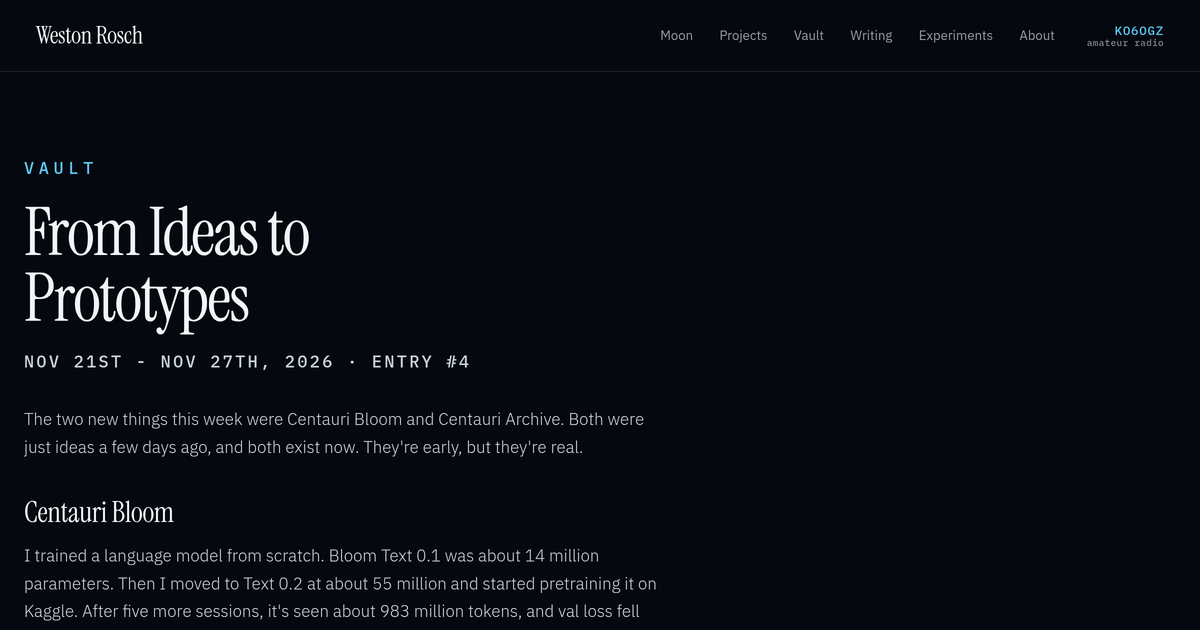
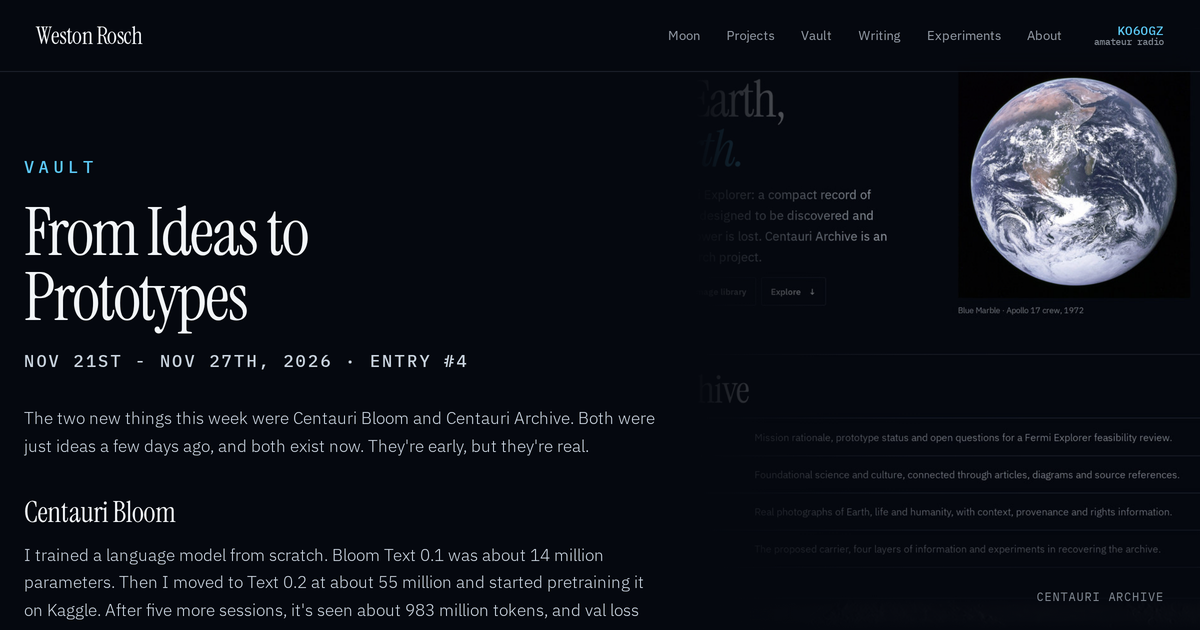
Add an in-article photo to Vault #4
Use a real screenshot of the Centauri Archive site as the entry image,
and list it on the Vault index and homepage cards.

diff --git a/vault/week-4/index.html b/vault/week-4/index.html
@@ -65,6 +65,10 @@
         <p class="kicker"><a href="/vault/">Vault</a></p>
         <h1>From Ideas to Prototypes</h1>
         <p class="entry-meta"><time datetime="2026-11-27">Nov 21st - Nov 27th, 2026</time> · Entry #4</p>
+        <figure class="entry-photo" style="--entry-photo-position: 65% 40%">
+          <img src="/vault/img/vault-4-archive.jpg" alt="The Centauri Archive prototype site, with the Blue Marble photograph of Earth taken by the Apollo 17 crew in 1972" width="1600" height="1000" loading="eager" decoding="async">
+          <figcaption>Centauri Archive</figcaption>
+        </figure>
         <p>The two new things this week were Centauri Bloom and Centauri Archive. Both were just ideas a few days ago, and both exist now. They're early, but they're real.</p>
         <h2>Centauri Bloom</h2>
         <p>I trained a language model from scratch. Bloom Text 0.1 was about 14 million parameters. Then I moved to Text 0.2 at about 55 million and started pretraining it on Kaggle. After five more sessions, it's seen about 983 million tokens, and val loss fell from 2.766 to 2.715. Session 6 is running tonight and should take it to about 1.15 billion.</p>

diff --git a/index.html b/index.html
@@ -202,6 +202,7 @@
       <div class="wrap">
         <p class="kicker" data-reveal>Vault</p>
         <article class="vault-card home-vault" data-reveal>
+          <img class="vault-thumb" src="/vault/img/vault-4-archive.jpg" alt="The Centauri Archive prototype site, with the Blue Marble photograph of Earth taken by the Apollo 17 crew in 1972" width="1600" height="1000" loading="lazy" decoding="async">
           <div class="vault-card-body">
             <p class="entry-meta"><time datetime="2026-11-27">Nov 27, 2026</time> · Entry #4</p>
             <h2 id="vault-title"><a href="/vault/week-4/">From Ideas to Prototypes</a></h2>

diff --git a/vault/index.html b/vault/index.html
@@ -63,6 +63,7 @@
       <ol class="vault-list">
         <li>
           <article class="vault-card">
+            <img class="vault-thumb" src="/vault/img/vault-4-archive.jpg" alt="The Centauri Archive prototype site, with the Blue Marble photograph of Earth taken by the Apollo 17 crew in 1972" width="1600" height="1000" loading="lazy" decoding="async">
             <div class="vault-card-body">
               <p class="entry-meta"><time datetime="2026-11-27">Nov 27, 2026</time> · Entry #4</p>
               <h2><a href="/vault/week-4/">From Ideas to Prototypes</a></h2>
